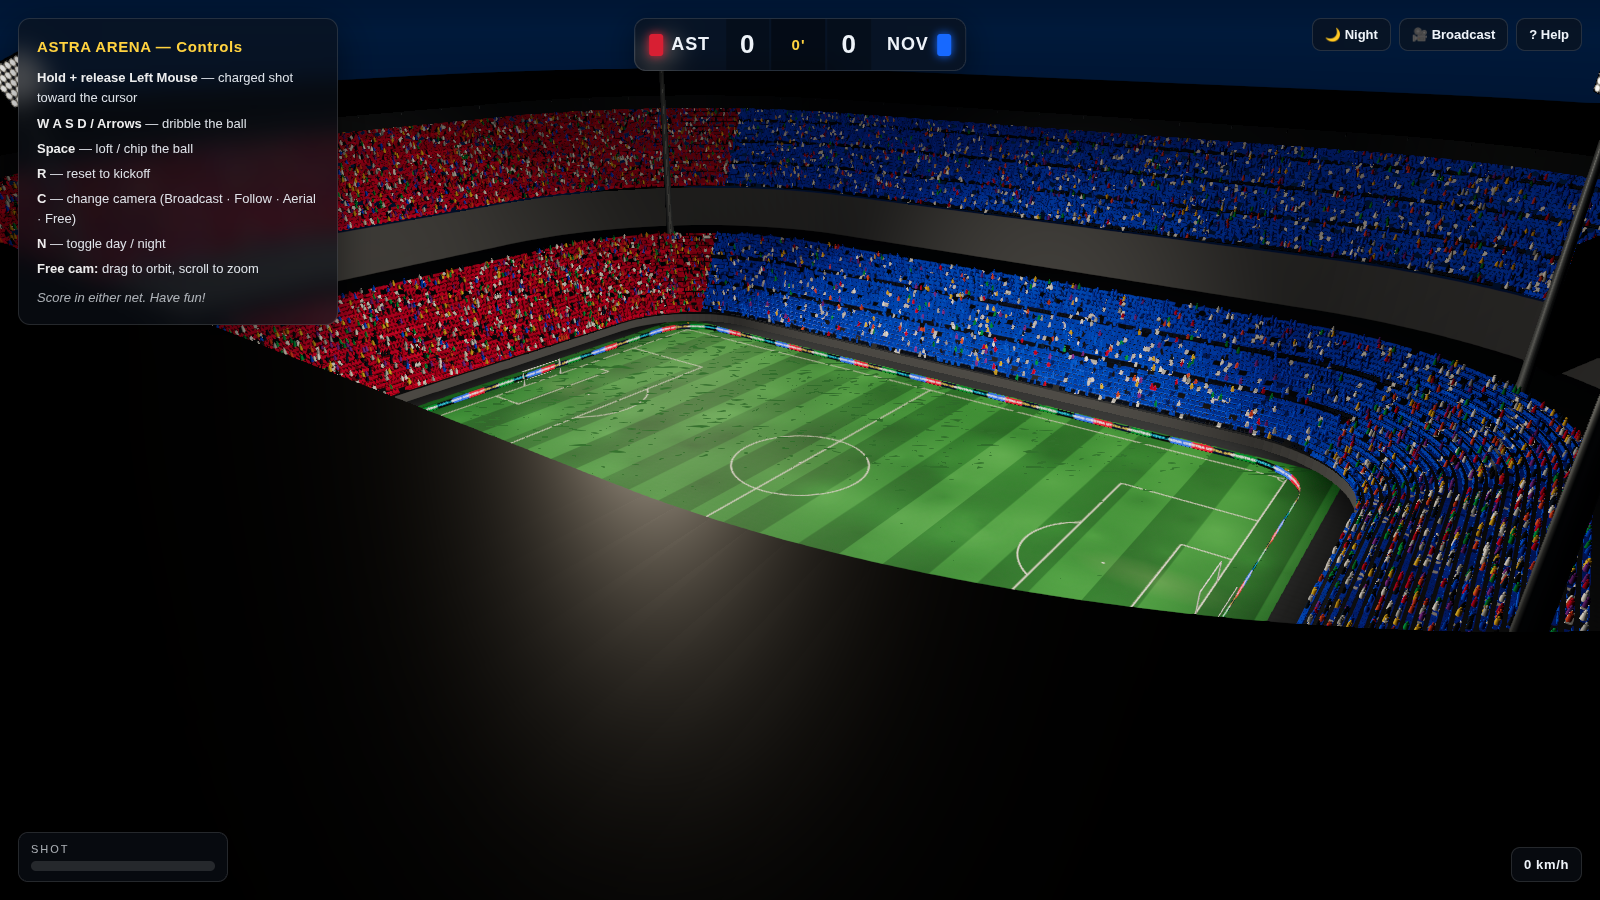
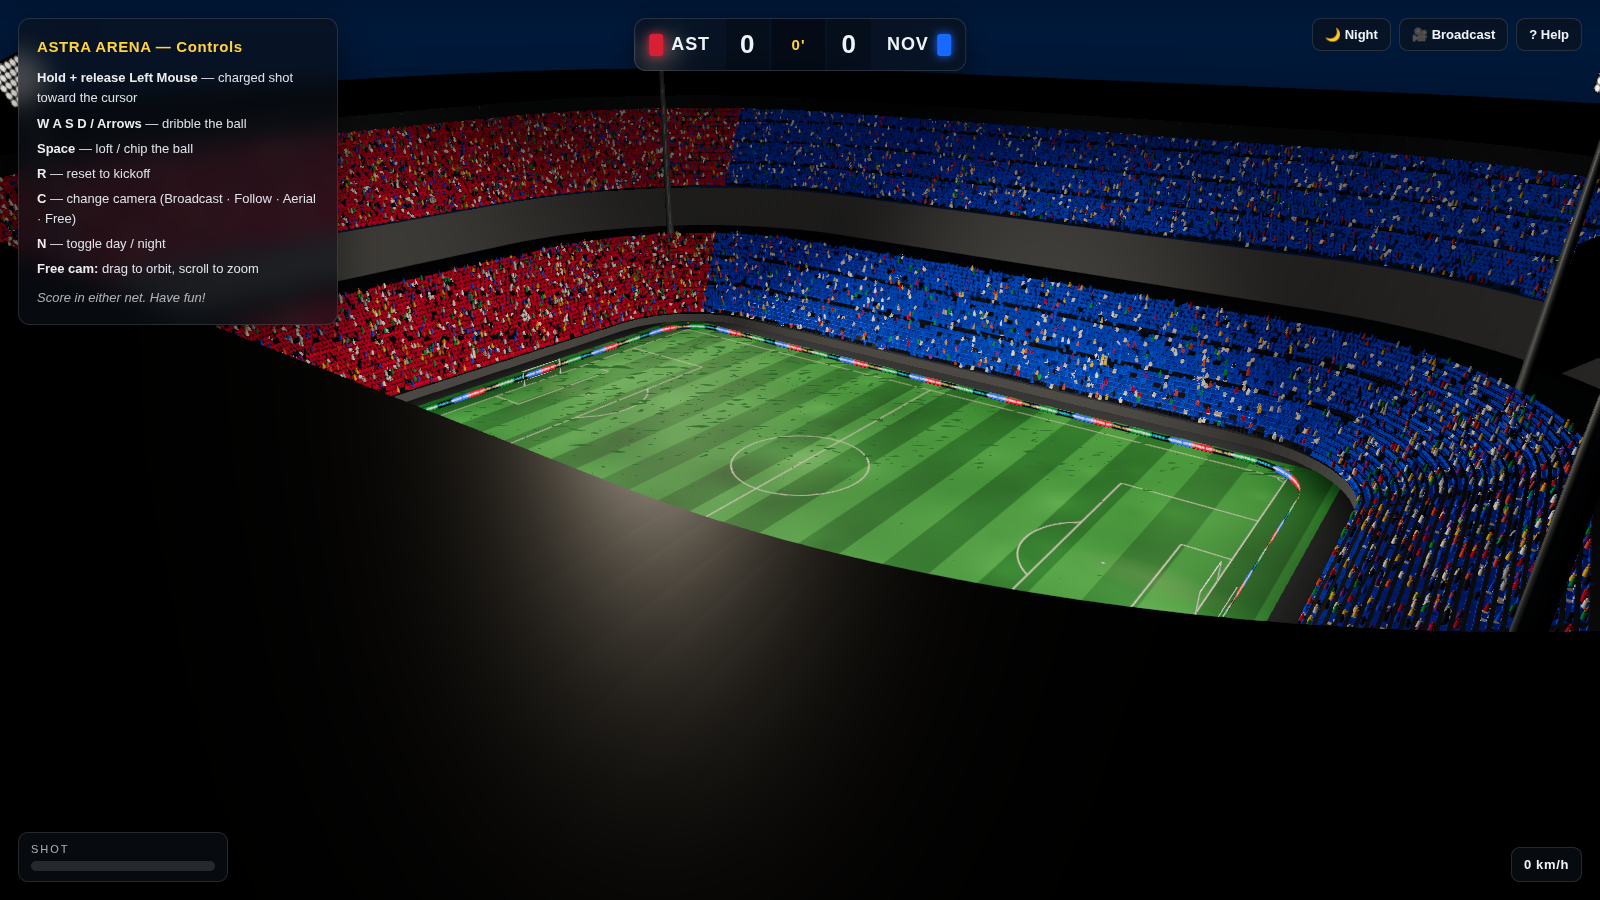
Soften pitch lines: matte chalk-white instead of neon
- Change line albedo from near-pure white (0xf4f7f4) to a softer
  chalk-white (0xd7dcd4) so markings read as painted, not glowing.
- Raise bloom thresholds (day 0.95, night 0.78) and trim strength so
  the bloom pass only catches true emissives (floodlights/LEDs) and
  never the painted lines.
- Refresh showcase screenshots.

https://claude.ai/code/session_01S19XfvKNxLzMgS19qT1buL

diff --git a/src/core/PostFX.js b/src/core/PostFX.js
@@ -26,9 +26,10 @@ export class PostFX {
     if (QUALITY.bloom) {
       this.bloom = new UnrealBloomPass(
         new THREE.Vector2(size.x, size.y),
-        0.55, // strength
+        0.45, // strength
         0.7, // radius
-        0.82 // threshold — only bright (emissive) pixels bloom
+        0.95 // threshold — high, so only true emissives (lights/LEDs) bloom,
+        //                   never the matte painted lines
       );
       this.composer.addPass(this.bloom);
     }
@@ -42,8 +43,8 @@ export class PostFX {
 
   setNight(isNight) {
     if (this.bloom) {
-      this.bloom.strength = isNight ? 0.95 : 0.5;
-      this.bloom.threshold = isNight ? 0.62 : 0.82;
+      this.bloom.strength = isNight ? 0.85 : 0.45;
+      this.bloom.threshold = isNight ? 0.78 : 0.95;
     }
   }
 

diff --git a/src/config.js b/src/config.js
@@ -98,7 +98,7 @@ export const TEAMS = {
 export const COLORS = {
   GRASS_DARK: 0x2c6e2f,
   GRASS_LIGHT: 0x3a8a3d,
-  LINE: 0xf4f7f4,
+  LINE: 0xd7dcd4, // soft, matte chalk-white (not a glowing neon white)
   STEEL: 0xc9d2dc,
   ROOF: 0x2a2f38,
   ROOF_UNDER: 0x161a20,
